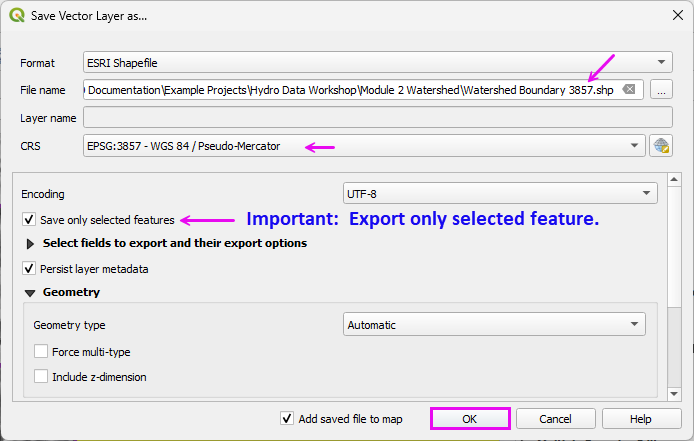
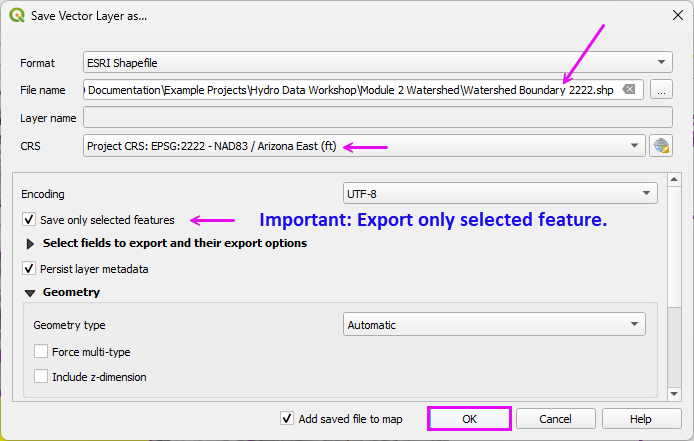
update module 1 image 19

diff --git a/source/tutorials/hydrowkshp/module2.rst b/source/tutorials/hydrowkshp/module2.rst
@@ -35,7 +35,7 @@ These can be used for FLO-2D or any other 2D model.
 
 - Fill the form and export the **Watershed Polygon**.
 
-.. note:: This file needs to use EPSG:3857 because that is also the native elevation CRS.
+.. note:: This file needs to use EPSG:2222 because that is the project coordinate system.
 
 |hydrow019|
 
